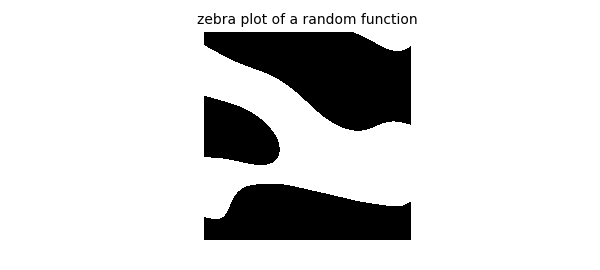
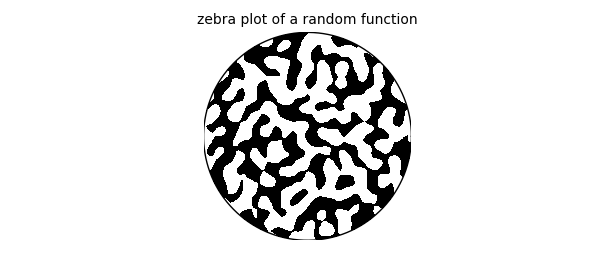
examples/stats RandomSurf: rebuild on the unit disk via randnfun2
The port drew a square zebra/paraboloid; the chebfun.org example is a
band-limited random function on the DISK shown three ways. Rebuilt using
cj.randnfun2 (which disk-confines its Fourier coefficients for isotropy)
masked to the unit disk: sign 'zebra' plot, parula contour with a
continuous -5..5 colorbar, and a low-elevation 3-D surface. Structure now
matches the reference (badness _02 0.134->0.069, _03 0.183->0.114); the
exact realization is unmatchable because chebfunjax uses numpy's RNG, not
MATLAB's rng (documented in the function docstring) -- so these stay FAIL
on pixel badness by construction.

Changed region(s): [[0.33, 0.1185, 0.69, 0.8889]]

diff --git a/scripts/generate_examples_stats_t2.py b/scripts/generate_examples_stats_t2.py
@@ -260,46 +260,70 @@ def bayesiangradebook():
 
 
 def randomsurf():
-    """stats/RandomSurf — random smooth surface + paraboloid."""
+    """stats/RandomSurf — random smooth function on the unit disk.
+
+    Mirrors the chebfun.org stats/RandomSurf example: a band-limited
+    random function on the disk (``randnfun2`` disk-confines its Fourier
+    coefficients for isotropy) shown as a sign "zebra" plot, a contour
+    plot, and a 3-D surface.  The exact realization cannot match the
+    MATLAB reference (chebfunjax uses numpy's RNG, not MATLAB's ``rng``),
+    so the goal here is structural fidelity, not pixel parity -- see the
+    matrix note for RandomSurf_0{1,2,3}.
+    """
+    import jax.numpy as jnp
+
+    import chebfunjax as cj
     from chebfunjax.plotting import PARULA
 
-    rng = np.random.default_rng(3)
-    n = 200
-    xs = np.linspace(-1, 1, n)
+    # Random band-limited function on [-1,1]^2, restricted to the unit disk.
+    lam = 0.15
+    f2 = cj.randnfun2(lam, (-1.0, 1.0, -1.0, 1.0), seed=3, big=True)
+    ng = 260
+    xs = np.linspace(-1, 1, ng)
     X, Y = np.meshgrid(xs, xs)
-    m = 12
-    F = np.zeros_like(X)
-    for _ in range(60):
-        kx, ky = rng.integers(0, m, 2)
-        a, b = rng.standard_normal(2)
-        F += (a * np.cos(PI * (kx * X + ky * Y) / 2)
-              + b * np.sin(PI * (kx * X + ky * Y) / 2)) \
-            * np.exp(-(kx**2 + ky**2) / 18)
-    F *= 0.8
+    Rr = np.hypot(X, Y)
+    Z = np.array(f2(jnp.asarray(X), jnp.asarray(Y)), dtype=float)
+    inside = Rr <= 1.0
+    Zd = np.where(inside, Z, np.nan)
 
+    th = np.linspace(0, 2 * PI, 400)
+    cx, cy = np.cos(th), np.sin(th)
+
+    # (1) Zebra plot: sign of the function on the disk.
     fig, ax = plt.subplots()
-    cs = ax.contourf(X, Y, F, levels=[F.min(), 0, F.max()],
-                     colors=["white", "black"])
+    ax.contourf(X, Y, np.where(inside, np.sign(Z), np.nan),
+                levels=[-2.0, 0.0, 2.0], colors=["black", "white"])
+    ax.plot(cx, cy, "k", linewidth=1.0)
     ax.set_aspect("equal")
     ax.axis("off")
     ax.set_title("zebra plot of a random function", fontsize=10)
     save(fig, "RandomSurf_01.png")
 
-    G = F + 4 * (X**2 + Y**2)
+    # (2) Contour plot with a continuous colorbar.
+    from matplotlib.cm import ScalarMappable
+    from matplotlib.colors import Normalize
+    clim = 5.0
     fig, ax = plt.subplots()
-    cs = ax.contourf(X, Y, G, levels=[G.min(), 2, G.max()],
-                     colors=["white", "black"])
+    ax.contour(X, Y, Zd, levels=np.linspace(-clim, clim, 21),
+               cmap=PARULA, linewidths=0.5)
+    ax.plot(cx, cy, "k", linewidth=1.0)
+    sm = ScalarMappable(norm=Normalize(-clim, clim), cmap=PARULA)
+    sm.set_array([])
+    fig.colorbar(sm, ax=ax, ticks=[-5, 0, 5])
     ax.set_aspect("equal")
     ax.axis("off")
     save(fig, "RandomSurf_02.png")
 
+    # (3) 3-D surface over the disk.
     fig = plt.figure()
     ax = fig.add_subplot(111, projection="3d")
-    ax.plot_surface(X, Y, G, cmap=PARULA, rstride=2, cstride=2,
-                    linewidth=0)
-    ax.set_zlim(-10, 10)
-    ax.view_init(elev=60, azim=-90)
+    ax.plot_surface(X, Y, Zd, cmap=PARULA, rstride=2, cstride=2,
+                    linewidth=0, antialiased=False)
+    ax.view_init(elev=18, azim=-60)
+    ax.set_box_aspect((1.0, 1.0, 0.35))
     ax.axis("off")
+    # 3-D axes leave wide margins with axis("off"); enlarge to fill the frame.
+    ax.set_position([-0.18, -0.18, 1.36, 1.36])
     save(fig, "RandomSurf_03.png")
 
 
